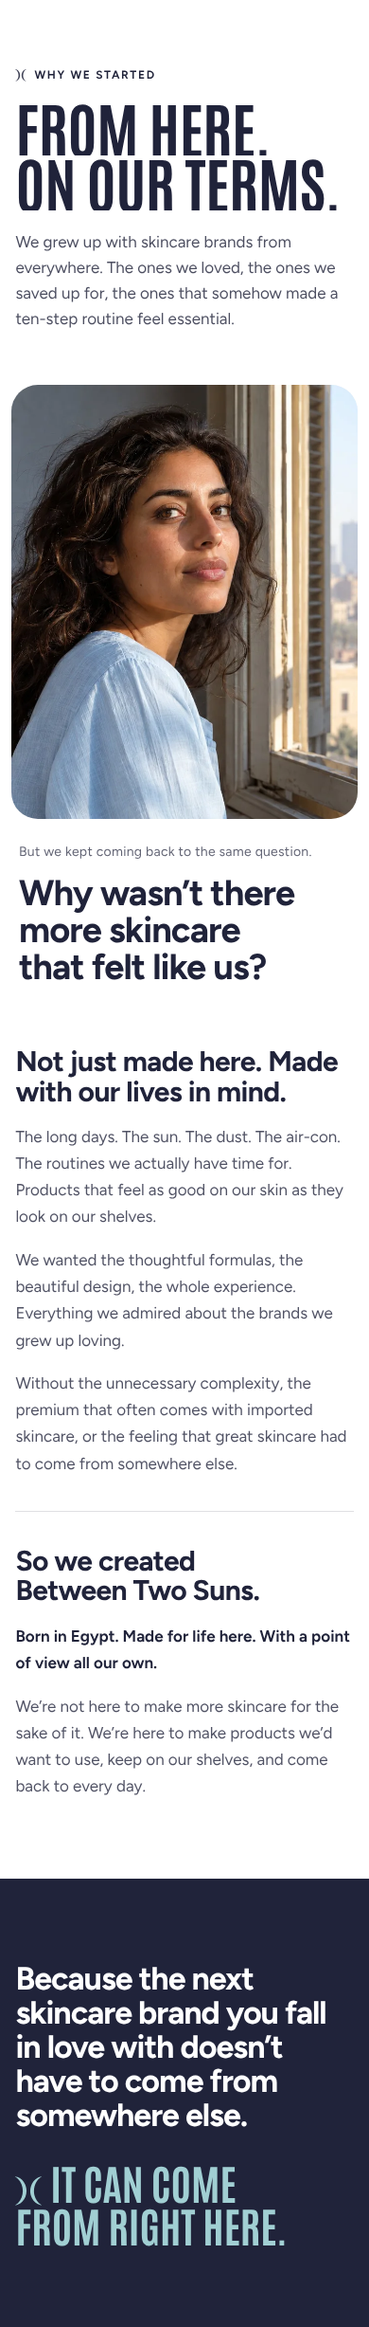
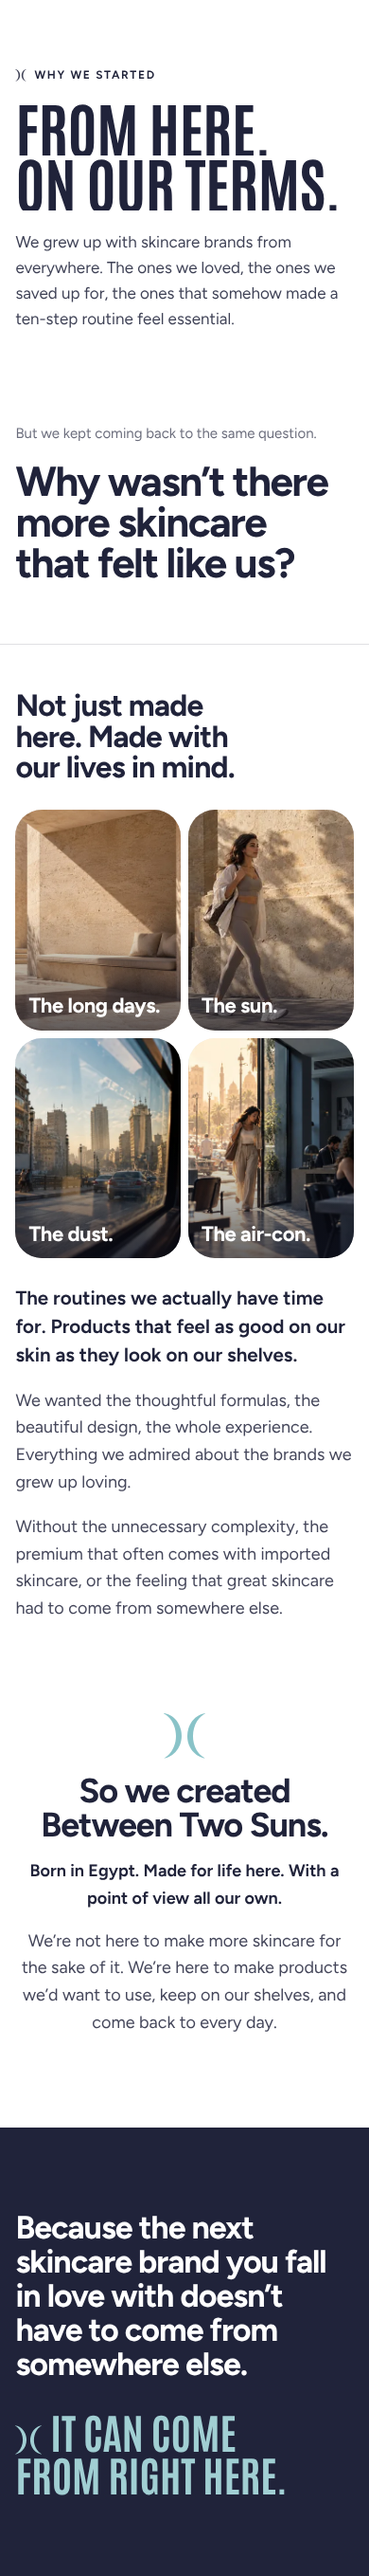
About story section: question alone, four life photo tiles, centred brand line, no second portrait (DECISIONS 352)
Claude-Session: https://claude.ai/code/session_01LtDGGg3Ak7XqciGhd3kvRD

diff --git a/theme/assets/about.css b/theme/assets/about.css
@@ -672,29 +672,43 @@
 .ab-st__line > span { display: inline-block; }
 .ab-st__line--2 { padding-inline-start: 18%; }
 :lang(ar) .ab-st__title { text-transform: none; line-height: 1.25; font-size: clamp(54px, 10vw, 168px); }
-.ab-st__intro { max-inline-size: 30rem; justify-self: end; font-size: clamp(17px, 1.35vw, 21px); line-height: 1.6; color: color-mix(in srgb, var(--c-ink) 80%, transparent); }
-/* B — pivot */
-.ab-st__b { position: relative; margin: clamp(56px, 8vw, 120px) 0 0; padding-inline: clamp(12px, 2vw, 28px); }
-.ab-st__photo { position: relative; overflow: hidden; border-radius: var(--radius-l); block-size: min(88vh, 900px); background: var(--c-paper); }
-.ab-st__img { position: absolute; inset: 0; inline-size: 100%; block-size: 100%; object-fit: cover; object-position: 60% 35%; transform-origin: 50% 40%; }
-.ab-st__photo::after { content: ''; position: absolute; inset: 0; background: linear-gradient(0deg, rgba(14, 16, 30, 0.62) 0%, rgba(14, 16, 30, 0.18) 42%, rgba(14, 16, 30, 0) 64%); }
-[dir='rtl'] .ab-st__img { transform: scaleX(1); }
-.ab-st__q { position: absolute; z-index: 1; inset-inline-start: clamp(36px, 5vw, 88px); inset-block-end: clamp(32px, 5vw, 80px); display: grid; gap: 14px; color: #fff; inline-size: min(46%, 760px); }
-/* The photo isn't mirrored in Arabic, so the question stays on its left, over the wall, away from her face. */
-@media (min-width: 990px) { [dir='rtl'] .ab-st__q { inset-inline-start: auto; left: clamp(36px, 5vw, 88px); } }
-.ab-st__q-lead { font-size: clamp(14px, 1.1vw, 17px); letter-spacing: 0.02em; opacity: 0.86; }
-.ab-st__q-text { font-weight: 700; font-size: clamp(38px, 5.2vw, 88px); line-height: 1.02; letter-spacing: -0.025em; text-wrap: balance; }
-:lang(ar) .ab-st__q-text { letter-spacing: 0; line-height: 1.3; font-size: clamp(34px, 4.4vw, 72px); }
-/* C — story: one consistent layout. Lead line left, reading column right, a hairline between passages (DECISIONS 351). */
-.ab-st__c { display: grid; margin-block-start: clamp(64px, 9vw, 140px); }
-.ab-st__pass { display: grid; gap: clamp(18px, 2.4vw, 28px); padding-block: clamp(36px, 5vw, 72px); border-block-start: 1px solid color-mix(in srgb, var(--c-ink) 14%, transparent); }
-.ab-st__pass:first-child { border-block-start: 0; padding-block-start: 0; }
-.ab-st__lead { font-weight: 700; font-size: clamp(30px, 3.4vw, 54px); line-height: 1.06; letter-spacing: -0.02em; max-inline-size: 12em; text-wrap: balance; }
+.ab-st__intro { max-inline-size: 30rem; justify-self: end; font-size: clamp(17px, 1.35vw, 21px); line-height: 1.6; color: color-mix(in srgb, var(--c-ink) 86%, transparent); }
+/* B — the question, alone and huge (DECISIONS 352). */
+.ab-st__b { display: grid; gap: clamp(16px, 2vw, 28px); padding-block: clamp(96px, 13vw, 200px) clamp(64px, 8vw, 128px); }
+.ab-st__q-lead { font-size: clamp(15px, 1.2vw, 18px); color: color-mix(in srgb, var(--c-ink) 66%, transparent); }
+.ab-st__q-text { font-weight: 700; font-size: clamp(44px, 7.4vw, 128px); line-height: 0.98; letter-spacing: -0.035em; max-inline-size: 11.5em; text-wrap: balance; }
+:lang(ar) .ab-st__q-text { letter-spacing: 0; line-height: 1.3; font-size: clamp(38px, 6vw, 104px); }
+/* C — the life it was made for: lead, four photo tiles, then the passage. */
+.ab-st__c { display: grid; gap: clamp(28px, 3.6vw, 56px); padding-block-start: clamp(48px, 6vw, 96px); border-block-start: 1px solid color-mix(in srgb, var(--c-ink) 14%, transparent); }
+.ab-st__lead { font-weight: 700; font-size: clamp(32px, 4.2vw, 68px); line-height: 1.02; letter-spacing: -0.025em; max-inline-size: 13em; text-wrap: balance; }
 :lang(ar) .ab-st__lead { letter-spacing: 0; line-height: 1.35; }
-.ab-st__body { display: grid; gap: 1.05em; max-inline-size: 34rem; font-size: clamp(17px, 1.3vw, 20px); line-height: 1.65; color: color-mix(in srgb, var(--c-ink) 78%, transparent); }
+.ab-st [role='list'].ab-st__tiles { display: grid; grid-template-columns: repeat(2, minmax(0, 1fr)); gap: clamp(8px, 1.2vw, 16px); margin: 0; padding: 0; list-style: none; }
+.ab-st__tile { position: relative; overflow: hidden; aspect-ratio: 3 / 4; border-radius: var(--radius-l); background: var(--c-paper); }
+.ab-st__tile-img { position: absolute; inset: 0; inline-size: 100%; block-size: 100%; object-fit: cover; }
+.ab-st__tile::after { content: ''; position: absolute; inset: 0; background: linear-gradient(0deg, rgba(14, 16, 30, 0.66) 0%, rgba(14, 16, 30, 0) 52%); }
+.ab-st__tile-t { position: absolute; z-index: 1; inset-inline: clamp(14px, 1.6vw, 24px); inset-block-end: clamp(14px, 1.6vw, 24px); color: #fff; font-weight: 700; font-size: clamp(22px, 2.3vw, 36px); line-height: 1.05; letter-spacing: -0.02em; }
+:lang(ar) .ab-st__tile-t { letter-spacing: 0; line-height: 1.3; }
+.ab-st__body { display: grid; gap: 1em; max-inline-size: 36rem; font-size: clamp(18px, 1.4vw, 21px); line-height: 1.6; color: color-mix(in srgb, var(--c-ink) 84%, transparent); }
 .ab-st__strong { color: var(--c-ink); font-weight: 650; }
+.ab-st__body > .ab-st__strong { font-size: 1.14em; line-height: 1.45; }
+/* D — "So we created Between Two Suns.", centred under the mark. */
+.ab-st__e { display: grid; justify-items: center; text-align: center; gap: clamp(16px, 2vw, 24px); padding-block: clamp(96px, 13vw, 200px) 0; font-size: clamp(18px, 1.4vw, 21px); line-height: 1.6; }
+.ab-st__e-mark { inline-size: 44px; block-size: 48px; background: var(--c-step-2); -webkit-mask: var(--mark) center / contain no-repeat; mask: var(--mark) center / contain no-repeat; }
+.ab-st__e-head { font-weight: 700; font-size: clamp(36px, 5.6vw, 96px); line-height: 1; letter-spacing: -0.03em; max-inline-size: 10em; text-wrap: balance; margin-block-end: clamp(4px, 1vw, 12px); }
+:lang(ar) .ab-st__e-head { letter-spacing: 0; line-height: 1.35; }
+.ab-st__e-body { max-inline-size: 32rem; color: color-mix(in srgb, var(--c-ink) 84%, transparent); }
+@media (min-width: 990px) {
+  .ab-st [role='list'].ab-st__tiles { grid-template-columns: repeat(4, minmax(0, 1fr)); }
+  .ab-st__body { grid-template-columns: 1.15fr 1fr 1fr; column-gap: clamp(32px, 4vw, 72px); max-inline-size: none; margin-block-start: clamp(8px, 1.5vw, 24px); }
+}
+/* motion for B–D */
+.ab-st.is-live .ab-st__b > *, .ab-st.is-live .ab-st__lead, .ab-st.is-live .ab-st__body, .ab-st.is-live .ab-st__e > * { opacity: 0; transform: translateY(28px); transition: opacity 1s var(--ease-out), transform 1s var(--ease-out); }
+.ab-st.is-live .ab-st__q-text { transition-delay: 0.15s; }
+.ab-st.is-live .ab-st__b.is-in > *, .ab-st.is-live .ab-st__c.is-in .ab-st__lead, .ab-st.is-live .ab-st__tiles.is-in ~ .ab-st__body, .ab-st.is-live .ab-st__e.is-in > * { opacity: 1; transform: none; }
+.ab-st.is-live .ab-st__tile { opacity: 0; transform: translateY(40px); transition: opacity 1s var(--ease-out), transform 1s var(--ease-out); transition-delay: calc(var(--i) * 0.1s); }
+.ab-st.is-live .ab-st__tiles.is-in .ab-st__tile { opacity: 1; transform: none; }
 /* D — close: a full-width night band, the chapter's strongest moment. */
-.ab-st__d { margin-block-start: clamp(48px, 6vw, 96px); background: var(--c-ink); color: #fff; padding-block: clamp(88px, 12vw, 190px); }
+.ab-st__d { margin-block-start: clamp(96px, 12vw, 180px); background: var(--c-ink); color: #fff; padding-block: clamp(88px, 12vw, 190px); }
 .ab-st { padding-block-end: 0; }
 .ab-st__d-in { display: grid; gap: clamp(32px, 4.5vw, 64px); }
 .ab-st__close { font-weight: 700; font-size: clamp(34px, 5.4vw, 92px); line-height: 1.06; letter-spacing: -0.03em; max-inline-size: 16em; }
@@ -705,16 +719,10 @@
 @media (min-width: 990px) {
   .ab-st__a { grid-template-columns: minmax(0, 1fr); }
   .ab-st__intro { justify-self: start; margin-inline-start: 18%; }
-  .ab-st__pass { grid-template-columns: minmax(0, 7fr) minmax(0, 5fr); align-items: start; column-gap: clamp(40px, 6vw, 110px); }
 }
 @media (max-width: 989px) {
   .ab-st__line--2 { padding-inline-start: 0; }
   .ab-st__intro { justify-self: start; }
-  .ab-st__photo { block-size: auto; aspect-ratio: 4 / 5; }
-  /* Phones: the question sits under the photo, so it never covers the face. */
-  .ab-st__photo::after { display: none; }
-  .ab-st__q { position: static; inline-size: auto; color: var(--c-ink); padding: 24px 8px 0; }
-  .ab-st__q-lead { opacity: 0.7; }
 }
 /* Motion (JS adds .is-live; without it, or with reduced motion, everything is simply shown) */
 .ab-st.is-live .ab-st__line > span { transform: translateY(105%); transition: transform 1.1s var(--ease-out); }
@@ -722,12 +730,6 @@
 .ab-st.is-live .ab-st__a.is-in .ab-st__line > span { transform: none; }
 .ab-st.is-live .ab-st__intro { opacity: 0; transform: translateY(18px); transition: opacity 0.9s var(--ease-out) 0.35s, transform 0.9s var(--ease-out) 0.35s; }
 .ab-st.is-live .ab-st__a.is-in .ab-st__intro { opacity: 1; transform: none; }
-.ab-st.is-live .ab-st__img { transform: scale(calc(1.14 - var(--p, 0) * 0.14)); will-change: transform; }
-.ab-st.is-live .ab-st__q > * { opacity: 0; transform: translateY(24px); transition: opacity 1s var(--ease-out), transform 1s var(--ease-out); }
-.ab-st.is-live .ab-st__q-text { transition-delay: 0.15s; }
-.ab-st.is-live .ab-st__q.is-in > * { opacity: 1; transform: none; }
-.ab-st.is-live .ab-st__pass { opacity: 0; transform: translateY(32px); transition: opacity 1s var(--ease-out), transform 1s var(--ease-out); }
-.ab-st.is-live .ab-st__pass.is-in { opacity: 1; transform: none; }
 .ab-st.is-live .ab-st__w { opacity: 0.22; transition: opacity 0.35s linear; }
 .ab-st.is-live .ab-st__w.is-on { opacity: 1; }
 .ab-st.is-live .ab-st__sign { opacity: 0; transform: translateY(20px); transition: opacity 1s var(--ease-out), transform 1s var(--ease-out); }

diff --git a/DECISIONS.md b/DECISIONS.md
@@ -1435,3 +1435,4 @@ Each entry: decision · why · reversibility. Newest last.
 349. **Climate page 16:00 moment is the afternoon sun (owner: "keep it sun not heat").** On the Climate page only (home Heat tab unchanged: there it is a condition list, and heat is a real separate concern): tag `climate_story.heat_tag` "Strong sun" / شمس قوية (08:00 is already "Sun"), title `climate_story.chapters.heat` "Afternoon sun." / شمس العصر., line `climate.heat.line` "When the sun is at its strongest, the last thing you want is heavy skincare. Keep it light, and reapply SPF every 2 hours." / لما الشمس تبقى في عزّها…; icon thermometer → sun (sections/climate-story.liquid). Deployed to Version 1.2 (3 files, checksums match; live index MD5 unchanged). Checked: theme-check 0, flows 408/408, finish 0, layout sweep clean.
 350. **About page: "From here. On our terms." story chapter — demo on Version 1.2 (owner: "I need this on a demo to actually see it").** Owner rejected the routine texture section's repetition and then the "Read the label" demo (about-label, local only, ?view=about7, not deployed). New section `sections/about-story.liquid` from the owner's creative brief: A statement (oversized two-line display headline, second line offset), B pivot (one editorial photo, slight zoom-settle on scroll, the question over the wall on laptops / under the photo on phones so it never covers her face), C story (two passages, sticky lead line + narrow reading column on laptops), D close (sentence whose words light up with scroll, then "It can come from right here." at the headline's size as a bookend, in a deepened step-2 blue). Copy keys `about3.*` (owner's EN/AR; "The heat" → "The sun. The dust."; brand name isolated in Arabic). Placeholder photo: bts-portrait-window-wide/tall (real editorial photo from the shoot to replace it; section has image pickers). Order kept per owner: hero, story, routine, made, founder (hidden), rules, close. Owner choices: keep the routine section, the "from here" repetition and the price line for now; copy check later. Demo template `templates/page.about8.json` → /pages/about?view=about8 (and /ar/…). Deployed to Version 1.2: locales, sections/about-story.liquid, assets/about.css, templates/page.about8.json (checksums match; page.about.json unchanged; live index MD5 unchanged). Checked: theme-check 0, flows 408/408, finish 0, layout sweep clean. Videos/stills: review/about-story-*. Delete page.about3–8 demo templates before launch.
 351. **About story chapter redesigned after the owner's real-store review ("This is a 2 I need a 10").** Three faults on Shopify that the local preview hid or softened: (1) the closing sentence printed with no spaces — Shopify's `{%- -%}` trimming removed the literal space between word spans; the space is now printed with `{{ ' ' }}` (lesson: any literal whitespace between trimmed tags must be output, not typed); (2) the story passages left big holes (sticky lead line + alternating sides) — now one consistent layout: big lead left (7 cols), reading column right (5 cols), hairline between passages, no sticky, no alternation; (3) a dull grey-blue ending — the close is now a full-width night band (`--c-ink`) with the sentence filling white word by word on scroll and the sign "IT CAN COME FROM RIGHT HERE." in light blue, the `)(` mark inline at the start, wrap balanced (no orphan "HERE."). Deployed to Version 1.2 (`?view=about8`): about-story.liquid 9357db79…, about.css 0164901e…; live index MD5 unchanged. Theme-check 0, spacing 183/188 EN and AR (the 5 known About flags), finish 0 failures.
+352. **About story section redesigned again (owner: "This is a 2"; "I need the rest of the page, I just need this section designed better").** Only `about-story` changed; all copy word for word. Checked this time scrolling a phone with motion on (scratchpad real.cjs), not only reduced-motion stills. Diagnosis: a second portrait of the same-looking woman right under the hero; the story was grey paragraphs. Now: (A) headline + darker intro; (B) the question alone, huge, no photo; (C) "Not just made here…" lead, then four photo tiles carrying the first four sentences of `about3.s2_p1` (split in Liquid on ". ": The long days → climate-sun-tall, The sun → editorial-walk, The dust → climate-city-tall, The air-con → climate-ac-tall; falls back to the whole paragraph if the split fails), then the rest of the passage in three columns on laptops (first one bold); (D) "So we created Between Two Suns." centred under the )( mark; (E) the night band close. The section's image pickers were removed (no photo of its own now). Arabic note: the rest of s2_p1 now starts a paragraph with "والروتين…" (reads fine; can drop the و in the copy check). Version 1.2 checksums: about-story 81e73ed7…, about.css ce27a11e…; live index MD5 unchanged. Theme-check 0, spacing 183/188 EN/AR (known About flags), finish 0 failures.

diff --git a/CLAUDE.md b/CLAUDE.md
@@ -4,7 +4,7 @@ You are continuing a long-running build. This file is the handover: who the owne
 what was done and why, and exactly what to do next. **DECISIONS.md** (numbered log, newest at the bottom) and **STATUS.md**
 (current state, restore points, launch checklist) hold the detail; this file tells you how to use them.
 
-**Next DECISIONS entry number: 352.** Add one entry per round of work and keep STATUS.md current.
+**Next DECISIONS entry number: 353.** Add one entry per round of work and keep STATUS.md current.
 
 ---
 
